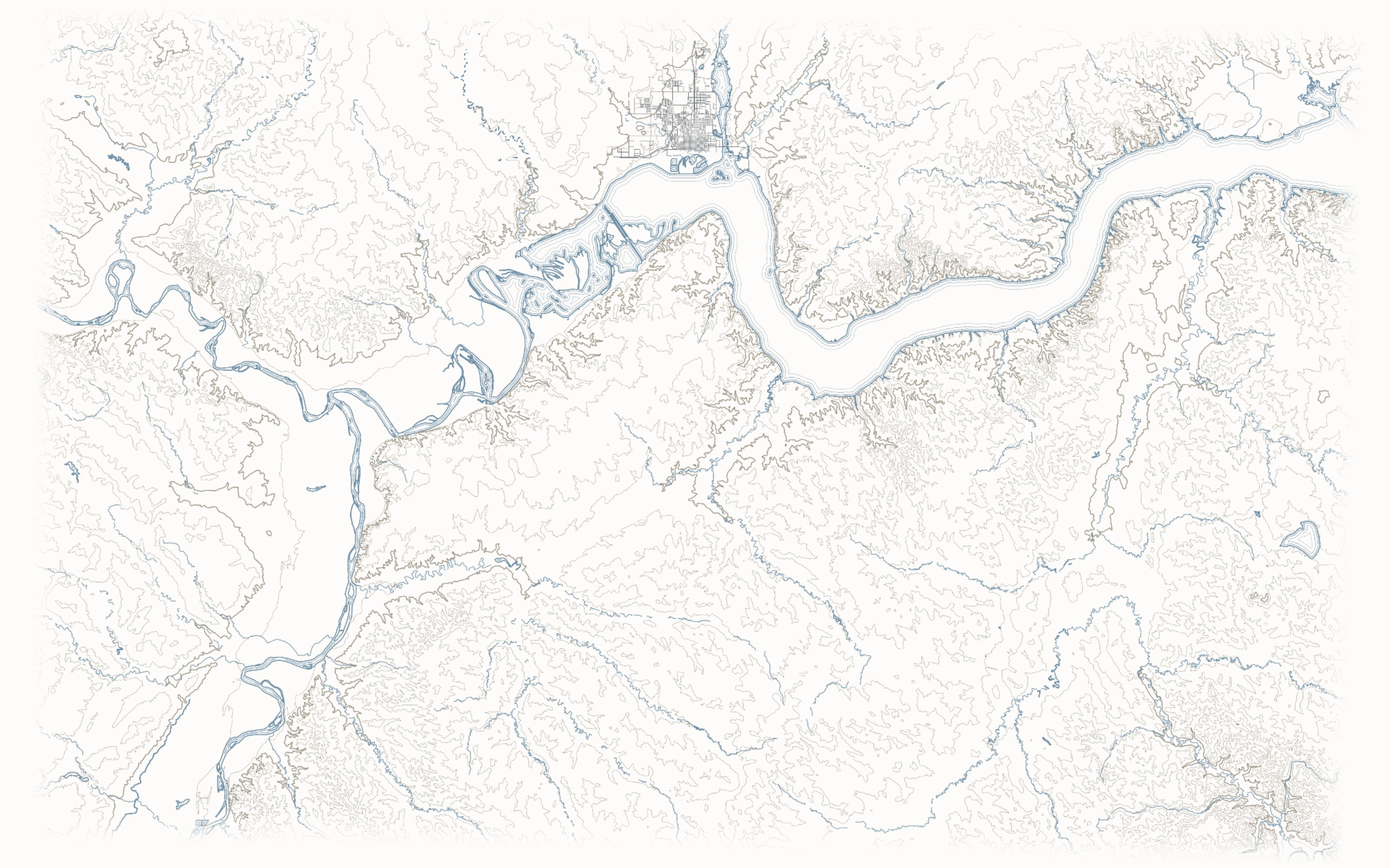
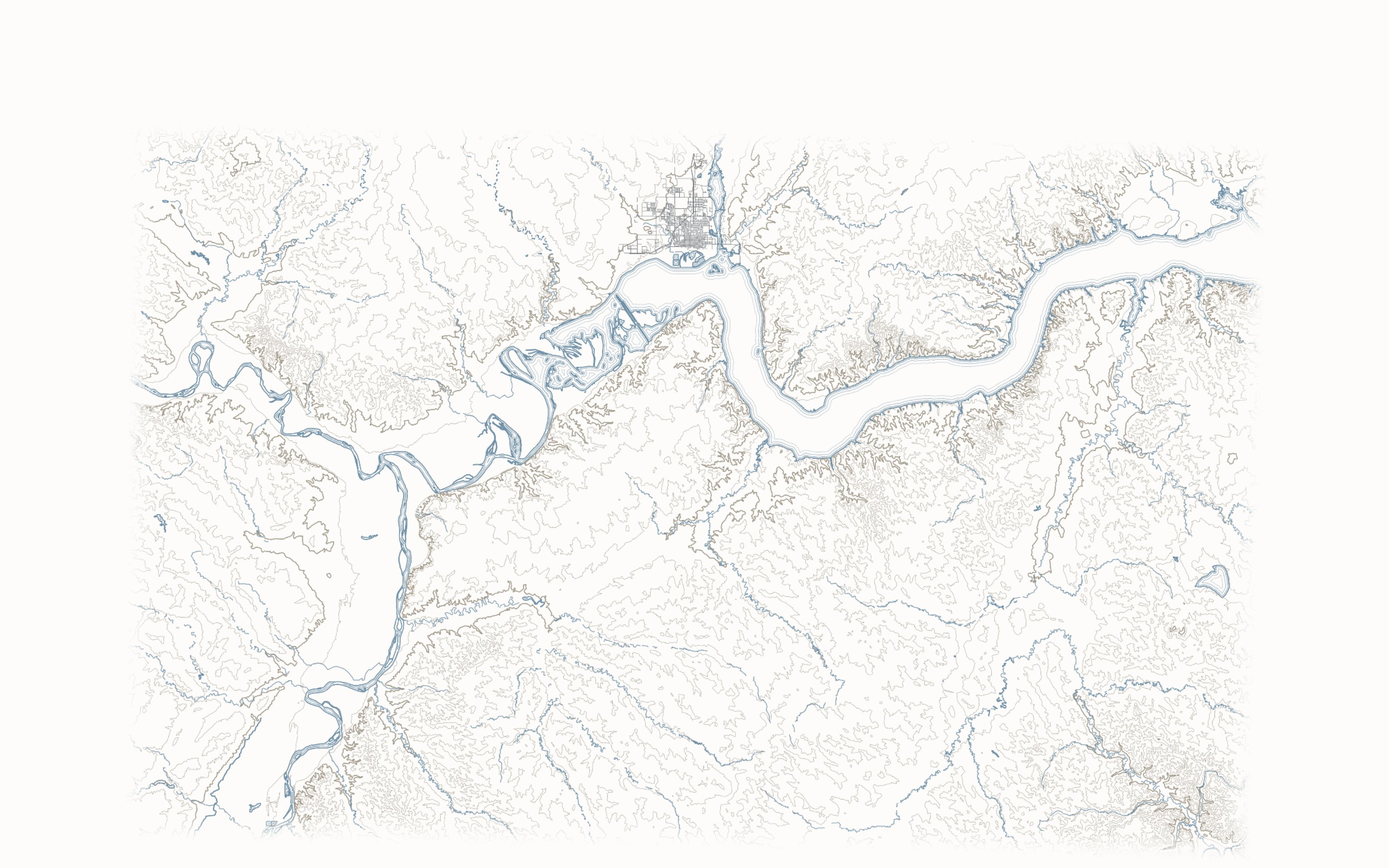
Homepage: the letterhead over the drawing in place of the card
Portrait, name and tagline at left, links at right, one plum rule, set in a strip of
paper above the line drawing and sized in the drawing's own pixels so the two stay
aligned at any window size. On tall screens the letterhead comes first and the whole
drawing follows.

Claude-Session: https://claude.ai/code/session_01QEC42AGYUJSSYcpj39pmnV

diff --git a/index.html b/index.html
@@ -56,7 +56,7 @@
             --hero: url(home/hero-light.jpg);
         }
 
-        @media (max-aspect-ratio: 4/5) {
+        @media (max-aspect-ratio: 1/1) {
             :root { --hero: url(home/hero-phone-light.jpg); }
         }
 
@@ -72,7 +72,7 @@
             }
         }
 
-        @media screen and (prefers-color-scheme: dark) and (max-aspect-ratio: 4/5) {
+        @media screen and (prefers-color-scheme: dark) and (max-aspect-ratio: 1/1) {
             :root { --hero: url(home/hero-phone-dark.jpg); }
         }
 
@@ -112,69 +112,123 @@
             outline-offset: 3px;
         }
 
-        /* The first screen: the calling card on a paper panel over the map */
+        /* The first screen: the line drawing filling the screen, the letterhead set in its strip of
+           paper above it. --px is one pixel of the 1600 x 1000 drawing as the screen shows it, so the
+           letterhead keeps its place over the drawing at any window size. */
 
         .card-screen {
+            --px: max(100vw / 1600, 100svh / 1000);
             position: relative;
             min-height: 100vh;
             min-height: 100svh;
-            display: grid;
-            padding: 2rem 1rem 4rem;
-            background: var(--hero) center / cover no-repeat, var(--paper);
-            /* The card sits low on the screen, below the river; the drawing is composed for that. */
-            place-items: end center;
+            background: var(--hero) center top / cover no-repeat, var(--paper);
         }
 
-        .card {
-            background: var(--paper);
-            border: 1px solid var(--hair);
-            text-align: center;
-            width: 100%;
-            max-width: 37rem;
-            padding: 2.6rem clamp(1.25rem, 5vw, 3rem) 2.4rem;
+        .letterhead {
+            position: absolute;
+            top: calc(51 * var(--px));
+            left: max(1rem, calc(50% - 656 * var(--px)));
+            right: max(1rem, calc(50% - 656 * var(--px)));
+        }
+
+        .letterhead .row {
+            display: flex;
+            align-items: center;
+            gap: calc(22 * var(--px));
         }
 
         .headshot {
-            display: block;
-            width: 112px;
-            height: 112px;
+            flex: none;
+            width: calc(70 * var(--px));
+            height: calc(70 * var(--px));
             object-fit: cover;
             border: 1px solid var(--hair);
             border-radius: 50%;
-            margin: 0 auto 1.6rem;
+        }
+
+        .who {
+            flex: 1;
+            min-width: 0;
         }
 
         .name {
-            font-size: clamp(1.9rem, 5vw, 2.4rem);
+            font-size: calc(40.8 * var(--px));
             font-weight: 600;
             line-height: 1.1;
-            margin-bottom: 0.75rem;
         }
 
         .tagline {
-            font-size: 1.05rem;
+            margin-top: calc(7 * var(--px));
+            font-size: calc(17.9 * var(--px));
             color: var(--stone);
-            margin-bottom: 1.8rem;
-            text-wrap: balance;
         }
 
         .links {
             display: flex;
             flex-wrap: wrap;
-            justify-content: center;
-            gap: 0.4rem 1.5rem;
+            gap: 0.3rem calc(27 * var(--px));
             list-style: none;
+            font-size: calc(17.6 * var(--px));
         }
 
-        /* On a phone the whole drawing sits at the top and the card below it */
-        @media (max-aspect-ratio: 4/5) {
+        .rule {
+            height: 0;
+            border: 0;
+            border-top: 1px solid var(--accent);
+            margin-top: calc(22 * var(--px));
+        }
+
+        .drawing {
+            display: none;
+        }
+
+        /* On a tall screen the letterhead comes first and the whole drawing sits below it */
+        @media (max-aspect-ratio: 1/1) {
             .card-screen {
-                background-position: center top;
-                background-size: 100% auto;
-                place-items: start center;
-                padding-top: calc(72vw + 1.5rem);
-                padding-bottom: 1rem;
                 min-height: 0;
+                background: none;
+                padding: 1.5rem 1rem 0.5rem;
+            }
+
+            .letterhead {
+                position: static;
+            }
+
+            .letterhead .row {
+                flex-wrap: wrap;
+                gap: 0.9rem;
+            }
+
+            .headshot {
+                width: 56px;
+                height: 56px;
+            }
+
+            .name {
+                font-size: 1.7rem;
+            }
+
+            .tagline {
+                margin-top: 0.3rem;
+                font-size: 0.95rem;
+            }
+
+            .links {
+                width: 100%;
+                gap: 0.4rem 1.4rem;
+                font-size: 1rem;
+            }
+
+            .rule {
+                margin-top: 1rem;
+            }
+
+            .drawing {
+                display: block;
+                aspect-ratio: 860 / 600;
+                max-width: 100%;
+                margin: 0.75rem -1rem 0;
+                background: var(--hero) center / cover no-repeat;
             }
         }
 
@@ -296,17 +350,23 @@
 <body>
     <main>
     <header class="card-screen">
-        <div class="card">
-            <img src="headshot.jpg" alt="David Valerio" class="headshot" width="112" height="112">
-            <h1 class="name">David Valerio</h1>
-            <p class="tagline">Consultant and writer in Williston, North Dakota</p>
-            <ul class="links">
-                <li><a href="#maps">Maps</a></li>
-                <li><a href="#writing">Writing</a></li>
-                <li><a href="https://x.com/davidavalerio">Twitter</a></li>
-                <li><a href="mailto:david@davalerio.com">Email</a></li>
-            </ul>
+        <div class="letterhead">
+            <div class="row">
+                <img src="headshot.jpg" alt="David Valerio" class="headshot" width="70" height="70">
+                <div class="who">
+                    <h1 class="name">David Valerio</h1>
+                    <p class="tagline">Consultant and writer in Williston, North Dakota</p>
+                </div>
+                <ul class="links">
+                    <li><a href="#maps">Maps</a></li>
+                    <li><a href="#writing">Writing</a></li>
+                    <li><a href="https://x.com/davidavalerio">Twitter</a></li>
+                    <li><a href="mailto:david@davalerio.com">Email</a></li>
+                </ul>
+            </div>
+            <hr class="rule">
         </div>
+        <div class="drawing" role="img" aria-label="Line drawing of the Missouri and the Yellowstone at Williston"></div>
     </header>
     <div class="work">
     <section id="maps">

diff --git a/CLAUDE.md b/CLAUDE.md
@@ -2,7 +2,7 @@
 
 ## What This Is
 
-Personal calling card for David Valerio, map-led, plus his writing. The homepage opens on a single screen: the calling card (headshot, name, tagline, and links to Maps, Writing, Twitter and email) on a paper panel over a line drawing of the Missouri and the Yellowstone at Williston, seen from above; this is the URL David hands out at presentations and on business cards. Below it, on the same page, are three columns: Maps, Writing (essays and papers) and Podcasts (the Discern Earth conversations), each newest first. Each piece has its own page at `/writing/<slug>/`; there is no separate Writing index (`/writing/` forwards to the homepage's `#writing` section).
+Personal calling card for David Valerio, map-led, plus his writing. The homepage opens on a single screen: a letterhead (headshot, name, tagline, and links to Maps, Writing, Twitter and email, over a plum rule) above a line drawing of the Missouri and the Yellowstone at Williston, seen from above; this is the URL David hands out at presentations and on business cards. Below it, on the same page, are three columns: Maps, Writing (essays and papers) and Podcasts (the Discern Earth conversations), each newest first. Each piece has its own page at `/writing/<slug>/`; there is no separate Writing index (`/writing/` forwards to the homepage's `#writing` section).
 
 This is a personal site, not a services site. Don't propose services sections, contact forms, pricing, or training-related copy for it; "update the homepage" means extending the personal page.
 
@@ -77,7 +77,7 @@ The writing pages use the same tokens in `writing/style.css`: a 41rem measure an
 
 ## Layout
 
-The first screen (`.card-screen`, `100svh`) is the line drawing as a still image filling the screen, with the card on a paper panel (hairline border, square corners) set low on the screen over it: the view is composed so Williston, the river and the Yellowstone's confluence lie above the card and uncovered, the card centered on Williston's longitude and the drawing reaching equally far east and west of the city, and the drawing fades into the paper on every side. The first screen carries no caption; the map's own page names it and its sources. On tall screens (a phone) the whole drawing sits at the top and the card starts below it, whatever the screen's height, and the first screen ends with the card rather than filling the screen, so the columns follow without a gap. Below the first screen, a 76rem grid of three equal columns: Maps (three maps, each a row with its title and date and its snapshot to the right, the rest behind All Maps), Writing (the seven newest essays and papers, the rest behind All Writing) and Podcasts (the seven newest episodes, the rest behind All Podcasts: the Discern Earth conversations, listed by the guest's name and linked to their pages, and David's guest appearances on other shows from `_writing/appearances.yaml`, listed by the show's name and linked to the episode on Apple Podcasts). The toggles are plain `<details>`, so the page needs no script; the headings carry no counts, and no column labels its items by kind. The columns stack on phones, Maps first. To recapture the drawing behind the card, rebuild the Williston Confluence project in Drive and the map's tiles, then capture the four `home/hero-*.jpg` images from the map at the card's view (desktop 1600 × 1000 at twice the pixel density, north up and flat, centered on the drawing's frame; phone 860 × 1864 with the whole drawing at the top), without labels.
+The first screen (`.card-screen`, `100svh`) is the line drawing as a still image filling the screen, with no card: the letterhead sits in a strip of paper above the drawing, the portrait, name and tagline at left and Maps, Writing, Twitter and Email at right, closed by one plum rule spanning the drawing's width, the house letterhead. The drawing is composed so Williston, the river and the Yellowstone's confluence lie in its upper half, centered on Williston's longitude and reaching equally far east and west, and it fades into the paper on every side. The image is anchored at the top and the letterhead is sized and placed in the image's own pixels (`--px`), so the two stay aligned at any window size. The first screen carries no caption; the map's own page names it and its sources. On tall screens (a phone or a portrait tablet) the letterhead comes first, its links on a line of their own, and the whole drawing follows below it, and the first screen ends there rather than filling the screen. Below the first screen, a 76rem grid of three equal columns: Maps (three maps, each a row with its title and date and its snapshot to the right, the rest behind All Maps), Writing (the seven newest essays and papers, the rest behind All Writing) and Podcasts (the seven newest episodes, the rest behind All Podcasts: the Discern Earth conversations, listed by the guest's name and linked to their pages, and David's guest appearances on other shows from `_writing/appearances.yaml`, listed by the show's name and linked to the episode on Apple Podcasts). The toggles are plain `<details>`, so the page needs no script; the headings carry no counts, and no column labels its items by kind. The columns stack on phones, Maps first. To recapture the drawing behind the card, rebuild the Williston Confluence project in Drive and the map's tiles, then capture the four `home/hero-*.jpg` images from the map at the card's view (desktop 1600 × 1000 at twice the pixel density, north up and flat, the drawing below a 150-pixel strip for the letterhead; tall screens 860 × 600 with the whole drawing), without labels.
 
 ## Contact
 
